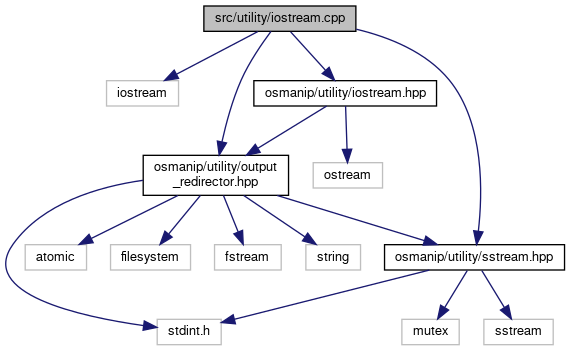
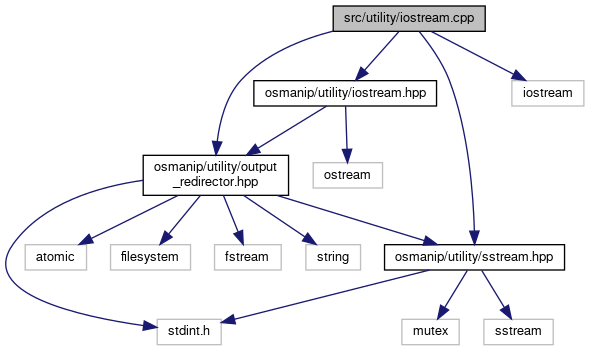
Update docs

diff --git a/docs/iostream_8cpp.html b/docs/iostream_8cpp.html
@@ -74,20 +74,20 @@ $(function() {
 <div class="title">iostream.cpp File Reference</div>  </div>
 </div><!--header-->
 <div class="contents">
-<div class="textblock"><code>#include &lt;iostream&gt;</code><br />
-<code>#include &lt;<a class="el" href="iostream_8hpp_source.html">osmanip/utility/iostream.hpp</a>&gt;</code><br />
+<div class="textblock"><code>#include &lt;<a class="el" href="iostream_8hpp_source.html">osmanip/utility/iostream.hpp</a>&gt;</code><br />
 <code>#include &lt;<a class="el" href="output__redirector_8hpp_source.html">osmanip/utility/output_redirector.hpp</a>&gt;</code><br />
 <code>#include &lt;<a class="el" href="sstream_8hpp_source.html">osmanip/utility/sstream.hpp</a>&gt;</code><br />
+<code>#include &lt;iostream&gt;</code><br />
 </div><div class="textblock"><div class="dynheader">
 Include dependency graph for iostream.cpp:</div>
 <div class="dyncontent">
 <div class="center"><img src="iostream_8cpp__incl.png" border="0" usemap="#asrc_2utility_2iostream_8cpp" alt=""/></div>
 <map name="asrc_2utility_2iostream_8cpp" id="asrc_2utility_2iostream_8cpp">
-<area shape="rect" title=" " alt="" coords="204,5,356,32"/>
-<area shape="rect" title=" " alt="" coords="107,80,179,107"/>
+<area shape="rect" title=" " alt="" coords="333,5,485,32"/>
 <area shape="rect" href="iostream_8hpp.html" title=" " alt="" coords="254,80,437,107"/>
 <area shape="rect" href="output__redirector_8hpp.html" title=" " alt="" coords="143,155,289,196"/>
 <area shape="rect" href="sstream_8hpp.html" title=" " alt="" coords="385,244,565,271"/>
+<area shape="rect" title=" " alt="" coords="512,80,584,107"/>
 <area shape="rect" title=" " alt="" coords="313,162,383,189"/>
 <area shape="rect" title=" " alt="" coords="157,319,221,345"/>
 <area shape="rect" title=" " alt="" coords="25,244,87,271"/>

diff --git a/docs/iostream_8hpp_source.html b/docs/iostream_8hpp_source.html
@@ -105,7 +105,7 @@ $(function() {
 <div class="line"><a name="l00039"></a><span class="lineno">   39</span>&#160; </div>
 <div class="line"><a name="l00040"></a><span class="lineno">   40</span>&#160;<span class="preprocessor">#endif  </span><span class="comment">// OSMANIP_COUT_INCLUDE_UTILITY_IOSTREAM_HPP</span></div>
 <div class="ttc" id="anamespaceosm_html"><div class="ttname"><a href="namespaceosm.html">osm</a></div><div class="ttdef"><b>Definition:</b> canvas.cpp:29</div></div>
-<div class="ttc" id="anamespaceosm_html_a8ac7a7b9764da0aa1f2e4d507bf9e069"><div class="ttname"><a href="namespaceosm.html#a8ac7a7b9764da0aa1f2e4d507bf9e069">osm::redirout</a></div><div class="ttdeci">OutputRedirector redirout</div><div class="ttdoc">Link to osm::cout.</div><div class="ttdef"><b>Definition:</b> iostream.cpp:31</div></div>
+<div class="ttc" id="anamespaceosm_html_a8ac7a7b9764da0aa1f2e4d507bf9e069"><div class="ttname"><a href="namespaceosm.html#a8ac7a7b9764da0aa1f2e4d507bf9e069">osm::redirout</a></div><div class="ttdeci">OutputRedirector redirout</div><div class="ttdoc">Link to osm::cout.</div><div class="ttdef"><b>Definition:</b> iostream.cpp:33</div></div>
 <div class="ttc" id="anamespaceosm_html_aa6448cb29b54abb14058bfd6e06e5cee"><div class="ttname"><a href="namespaceosm.html#aa6448cb29b54abb14058bfd6e06e5cee">osm::cout</a></div><div class="ttdeci">std::ostream cout</div></div>
 <div class="ttc" id="aoutput__redirector_8hpp_html"><div class="ttname"><a href="output__redirector_8hpp.html">output_redirector.hpp</a></div></div>
 </div><!-- fragment --></div><!-- contents -->
